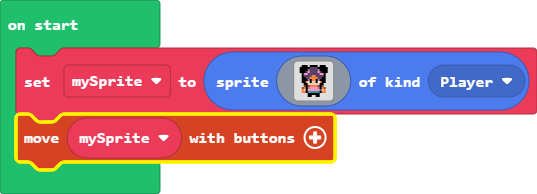
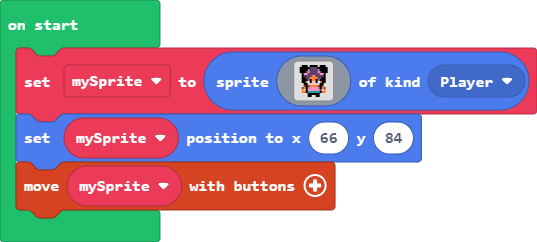
Update main.blocks, main.ts

diff --git a/main.ts b/main.ts
@@ -16,4 +16,5 @@ let mySprite = sprites.create(img`
     . . . . f f f f f f . . . . 
     . . . . f f . . f f . . . . 
     `, SpriteKind.Player)
+mySprite.setPosition(66, 84)
 controller.moveSprite(mySprite)
